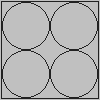
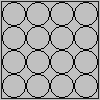
added new pull template

diff --git a/pulltemplate.cpp b/pulltemplate.cpp
@@ -142,7 +142,8 @@ void PullTemplate :: updateSubtemps()
 						}
 						break;
 				}
-		case SQUARE_PULL_TEMPLATE:
+		case SQUARE_OF_CIRCLES_PULL_TEMPLATE:
+		case SQUARE_OF_SQUARES_PULL_TEMPLATE:
 		{
 			if (this->shape == CIRCLE_SHAPE)
 				radius *= 1 / SQRT_TWO* 1.17;
@@ -156,7 +157,10 @@ void PullTemplate :: updateSubtemps()
 				{
 					p.x = -radius + littleRadius + 2 * littleRadius * i;
 					p.y = -radius + littleRadius + 2 * littleRadius * j;
-					subtemps.push_back(SubpullTemplate(CIRCLE_SHAPE, p, 2 * littleRadius, 0));
+					if (this->type == SQUARE_OF_CIRCLES_PULL_TEMPLATE)
+						subtemps.push_back(SubpullTemplate(CIRCLE_SHAPE, p, 2 * littleRadius, 0));
+					else
+						subtemps.push_back(SubpullTemplate(SQUARE_SHAPE, p, 2 * littleRadius, 0));
 				}
 			}
 			break;
@@ -224,7 +228,7 @@ void PullTemplate :: initializeTemplate()
 			this->parameterValues.push_back(3);
 			break;
 		case HORIZONTAL_LINE_SQUARE_PULL_TEMPLATE:
-			this->shape = CIRCLE_SHAPE;
+			this->shape = SQUARE_SHAPE;
 			this->base = false;
 						tmp = new char[100];
 						sprintf(tmp, "Count");
@@ -236,7 +240,7 @@ void PullTemplate :: initializeTemplate()
 						tmp = new char[100];
 						sprintf(tmp, "Count");
 			this->parameterNames.push_back(tmp);
-			this->parameterValues.push_back(4);
+			this->parameterValues.push_back(8);
 			this->base = false;
 			break;
 		case CROSS_PULL_TEMPLATE:
@@ -247,12 +251,13 @@ void PullTemplate :: initializeTemplate()
 			this->parameterValues.push_back(2);
 			this->base = false;
 			break;
-		case SQUARE_PULL_TEMPLATE:
+		case SQUARE_OF_SQUARES_PULL_TEMPLATE:
+		case SQUARE_OF_CIRCLES_PULL_TEMPLATE:
 			this->shape = SQUARE_SHAPE;
 						tmp = new char[100];
 						sprintf(tmp, "Count");
 			this->parameterNames.push_back(tmp);
-			this->parameterValues.push_back(2);
+			this->parameterValues.push_back(4);
 			this->base = false;
 			break;
 		case BUNDLE_NINETEEN_TEMPLATE:

diff --git a/pulltemplate.h b/pulltemplate.h
@@ -17,11 +17,12 @@
 #define HORIZONTAL_LINE_SQUARE_PULL_TEMPLATE 7
 #define CIRCLE_PULL_TEMPLATE 8
 #define CROSS_PULL_TEMPLATE 9
-#define SQUARE_PULL_TEMPLATE 10
-#define BUNDLE_NINETEEN_TEMPLATE 11
+#define SQUARE_OF_CIRCLES_PULL_TEMPLATE 10
+#define SQUARE_OF_SQUARES_PULL_TEMPLATE 11
+#define BUNDLE_NINETEEN_TEMPLATE 12
 
 #define FIRST_PULL_TEMPLATE CASED_CIRCLE_PULL_TEMPLATE
-#define LAST_PULL_TEMPLATE SQUARE_PULL_TEMPLATE 
+#define LAST_PULL_TEMPLATE SQUARE_OF_SQUARES_PULL_TEMPLATE 
 
 using std::vector;
 
